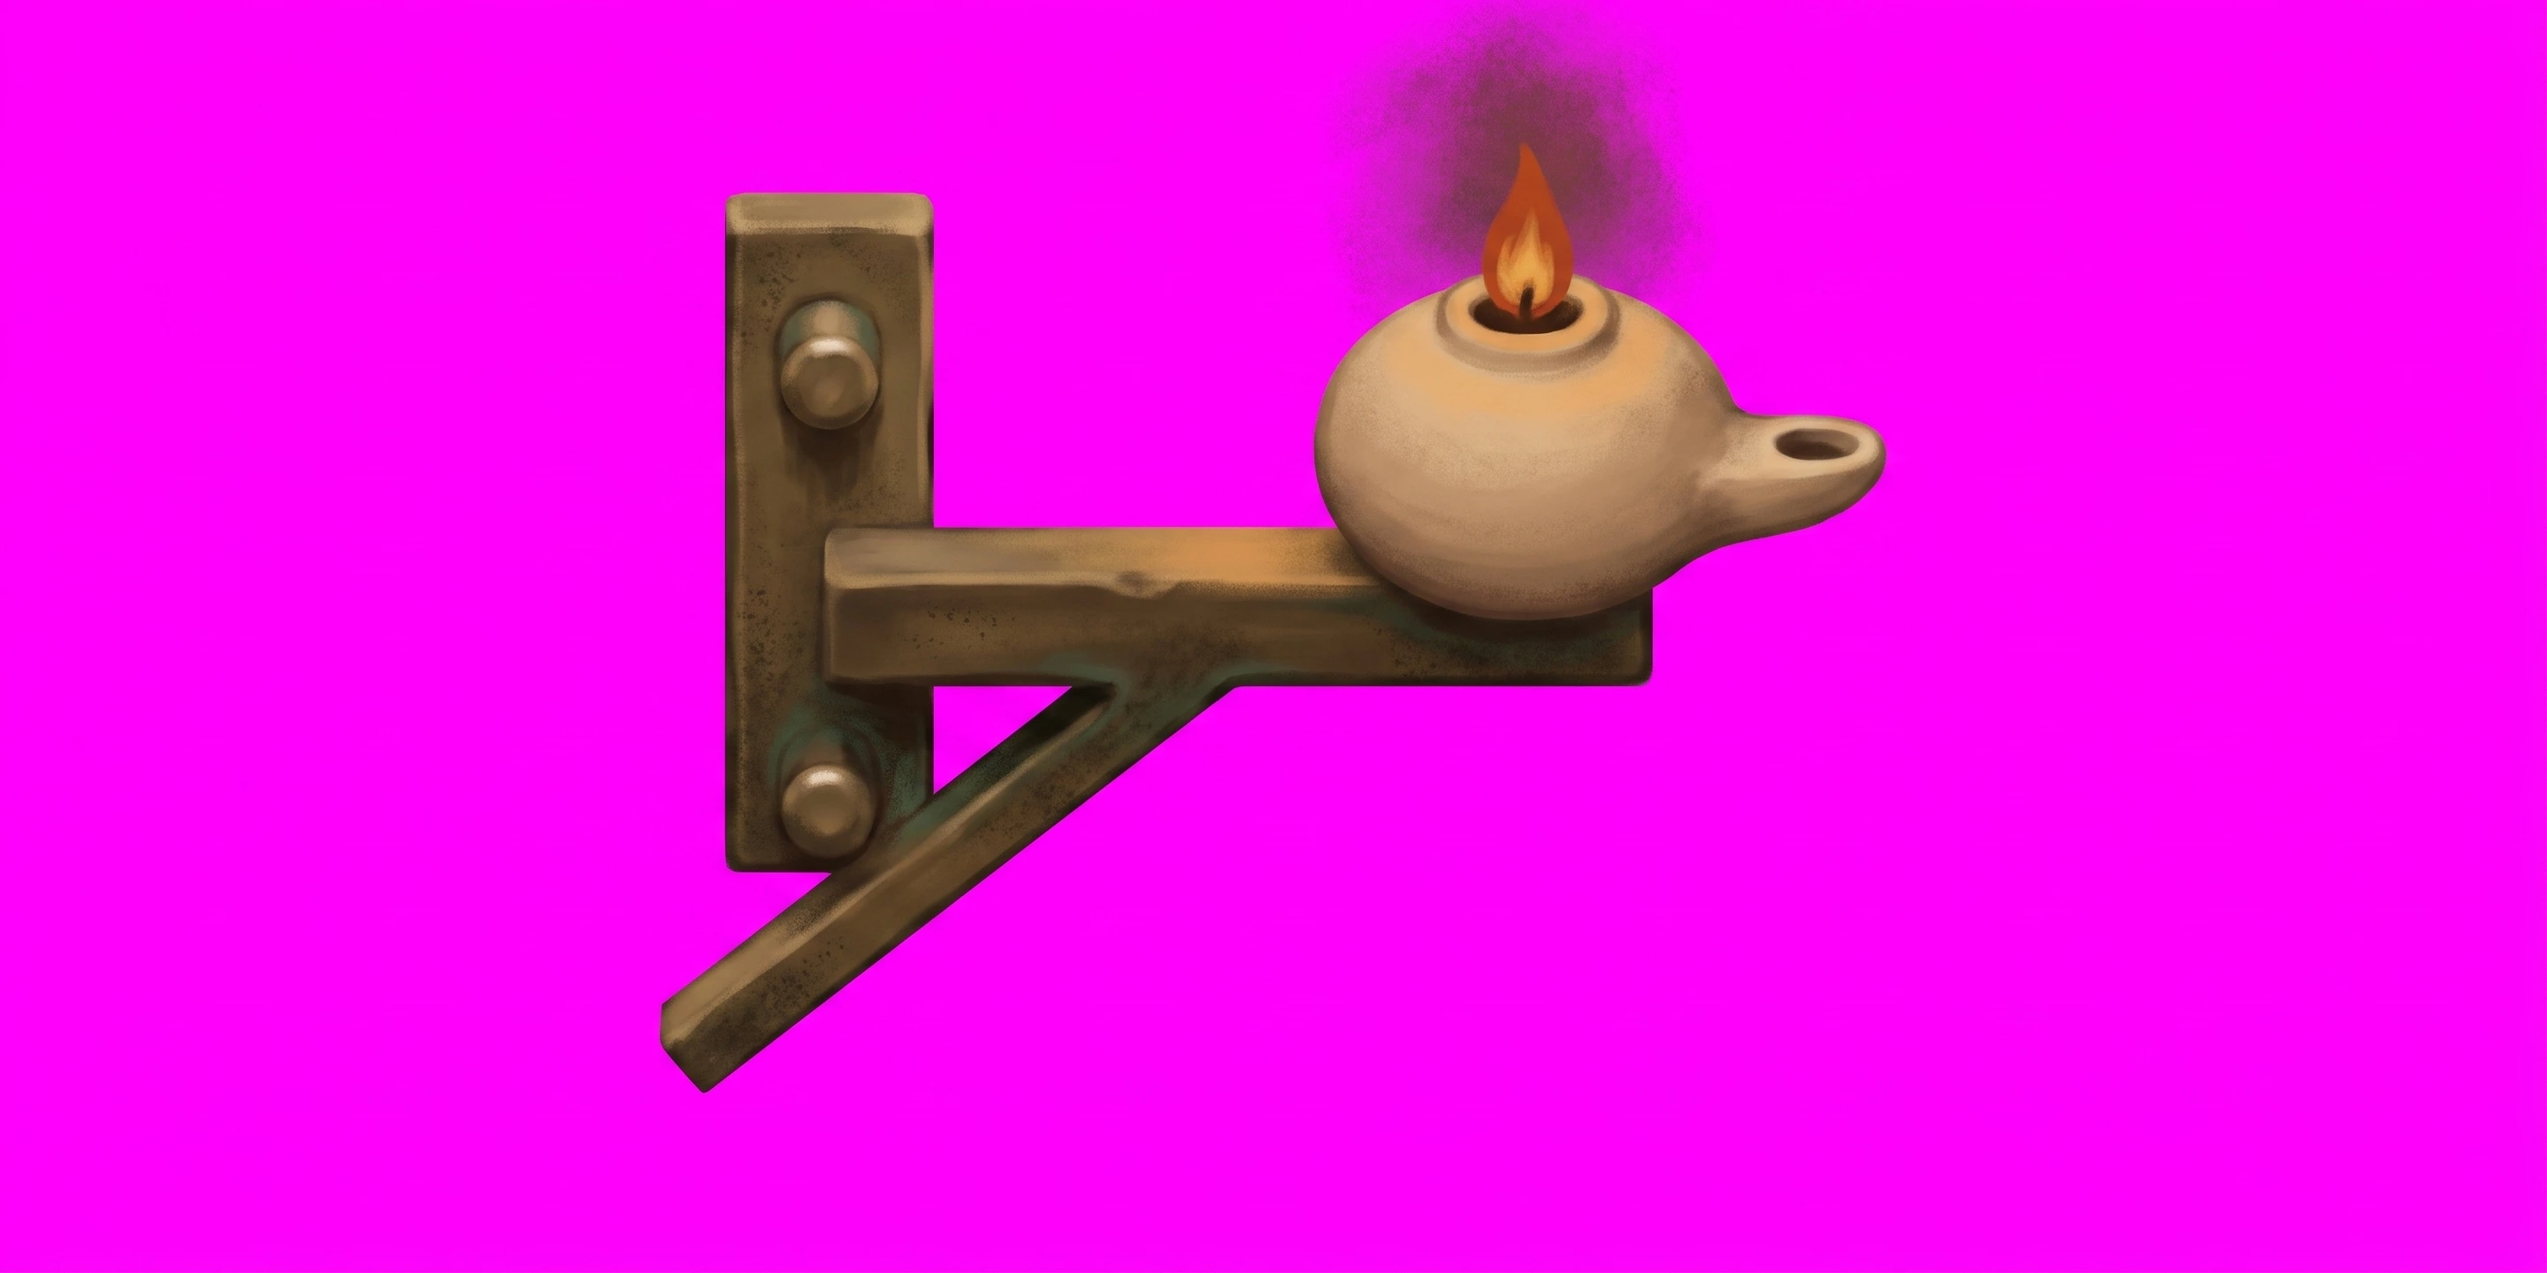
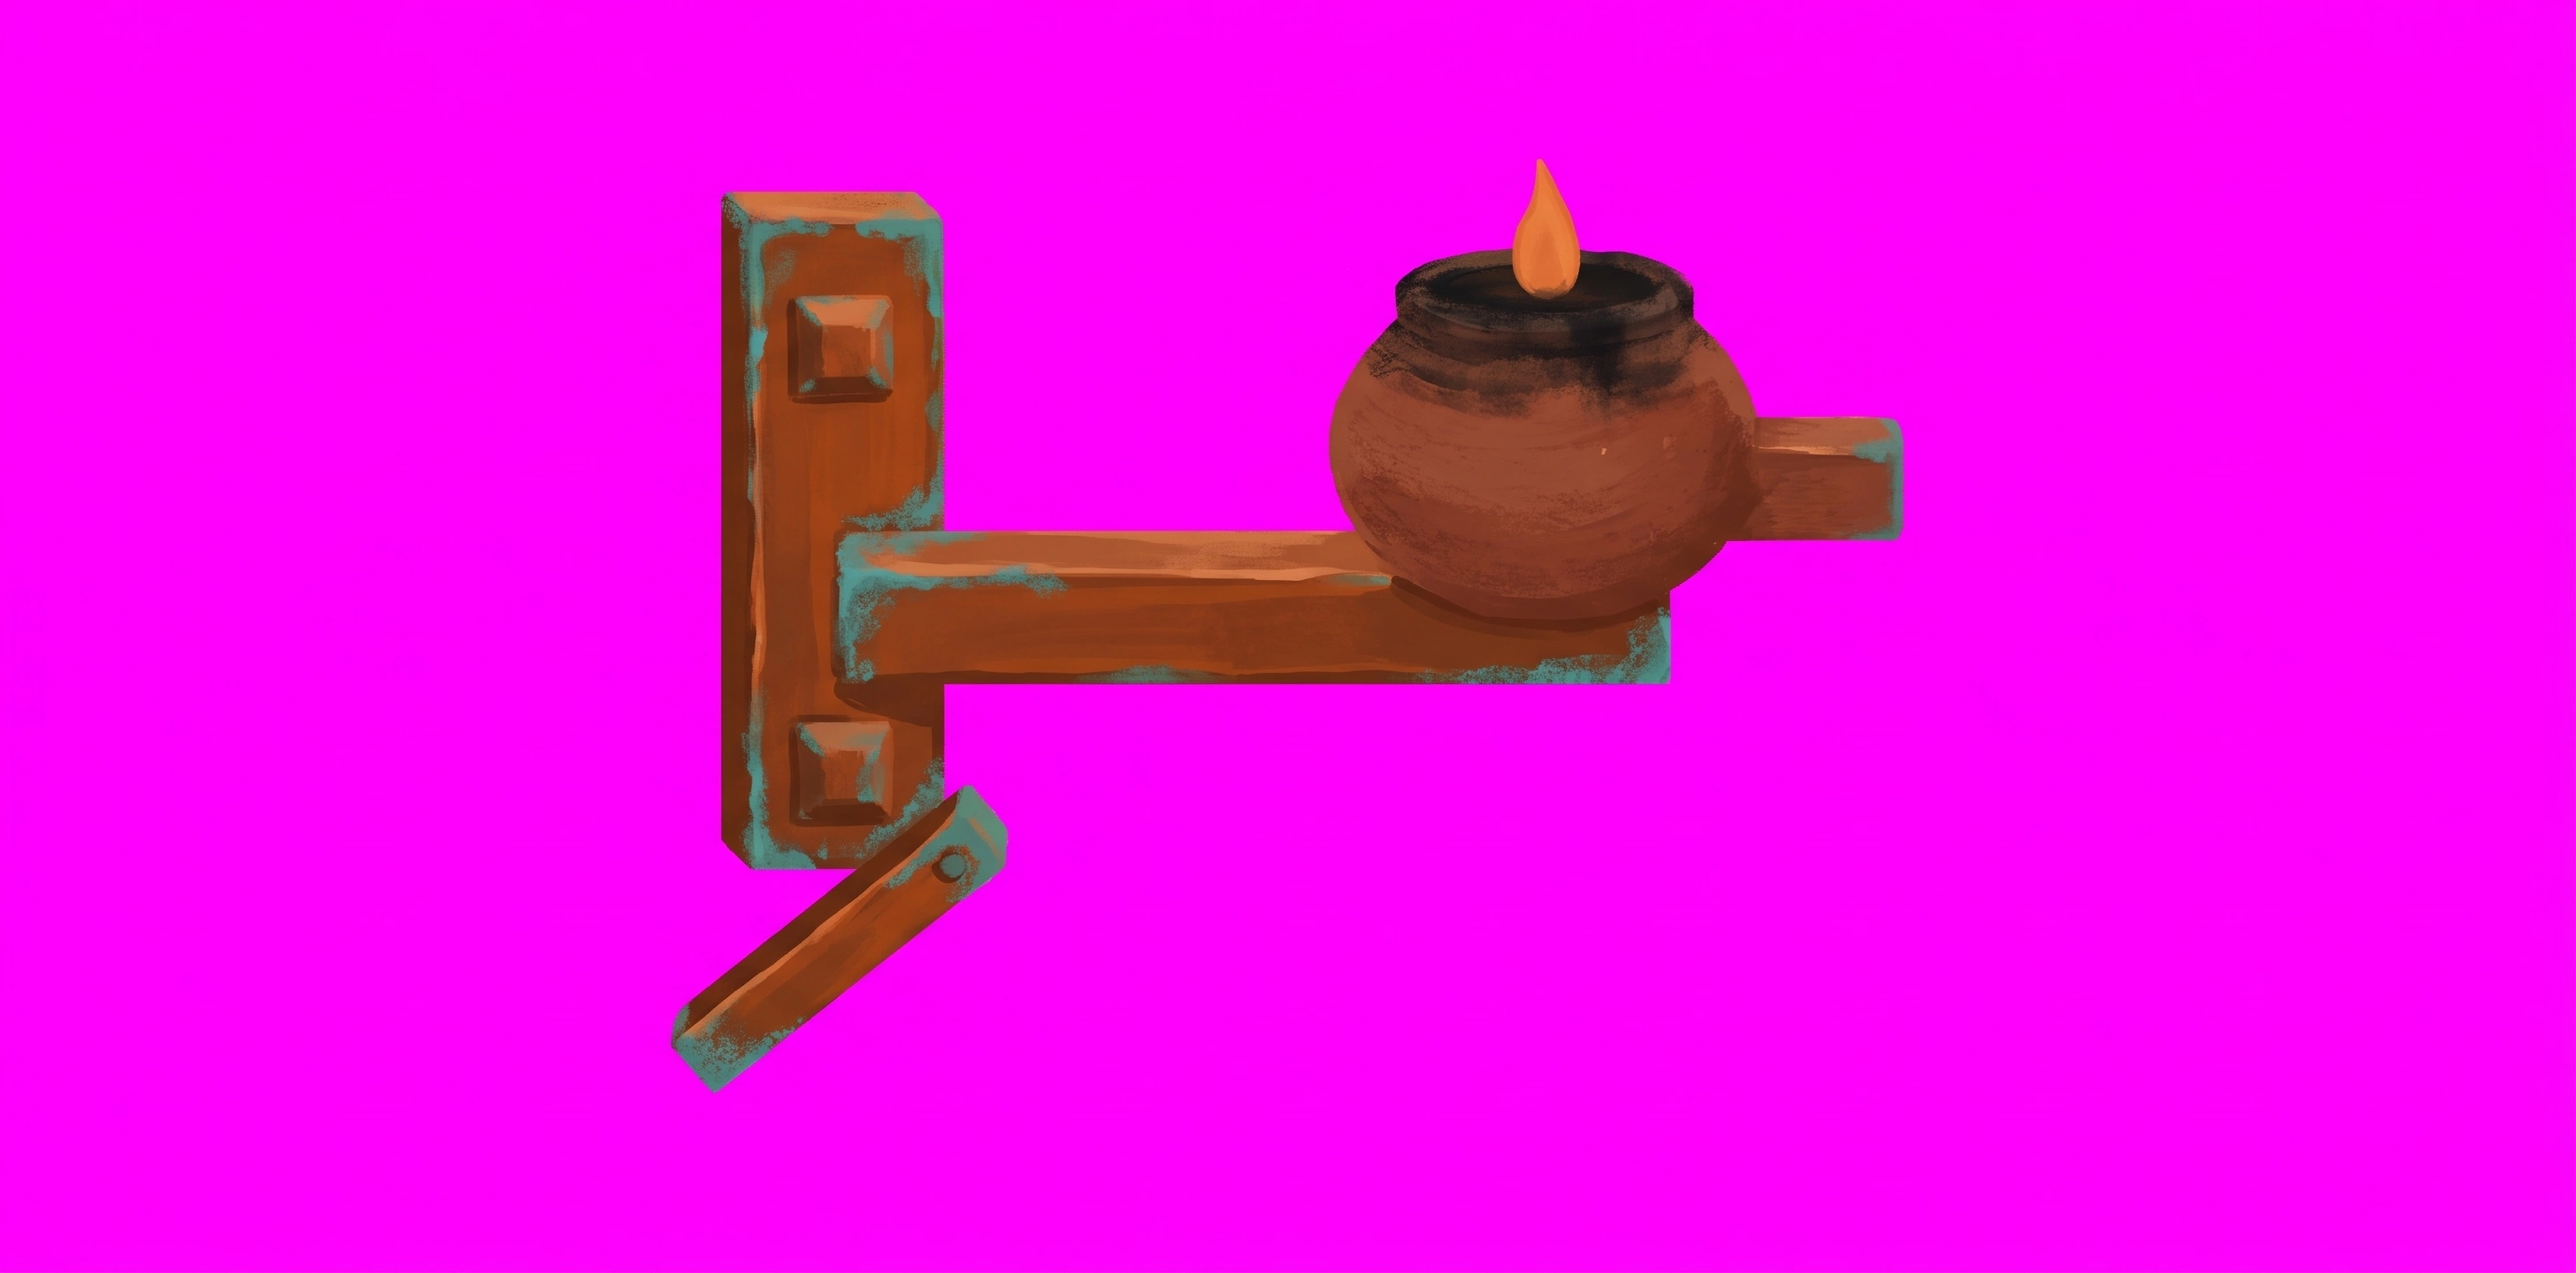
art: junior copper sconce
Claude-Session: https://claude.ai/code/session_01F6g2diRzQCzQwEf9zsEEGH

Changed region(s): [[0.25, 0.0, 0.75, 0.875]]

diff --git a/docs/instructions/repaint-queue.md b/docs/instructions/repaint-queue.md
@@ -483,7 +483,7 @@ Even lighting left to right, no hotspot, no vignette.
 
 ---
 
-## Nobleman — fourteen
+## Nobleman — thirteen
 
 The nobleman's existing props, repainted for the rank's new light orange floor. Each is its own thing
 first: cedar is cedar, linen is linen, pottery is pottery, painted in red ochre, Egyptian blue and leaf
@@ -511,38 +511,6 @@ The last nine are the house's own kinds, new with its activities ([themed-rooms.
 § Junior): each has a primitive of its own in `renderProp.py` and a guarded block in `art/rebuild.sh`. The
 banquet table and the bed are two cells across, so their frame is landscape three by two; the harp and the
 potted tree stand a cell taller, so theirs is portrait two by five.
-
-### `junior/sconce` — a copper wall bracket with a pottery lamp
-
-**Re-roll:** the rank's palette moved (2026-11-03, `Topology/Palette moodboard`). Repainted against the new light orange floor, in its own material's colours; copper only as a trim.
-
-**Attach:**
-
-1. `~/tile-previews/sconce-junior.png` — the scaffold
-2. `~/tile-previews/junior-plain.png` — the material reference
-
-```
-A wall-less product shot of a single object, painted in flat matte gouache, no background, on pure magenta #FF00FF. Landscape, two units wide by one tall, exactly as the reference. Do not re-compose it into a square. Paint over the reference image itself.
-
-The object: a sconce on a wall. The upright plate at the left is fixed to the WALL; the bar reaching
-right is the ARM; the diagonal below it is a BRACE; the small vessel at the arm's end is the LAMP, and
-the nub above it the FLAME.
-
-The bracket is COPPER, a deep orange-brown #8a4022, gone verdigris #4f9a86 along its edges and joints.
-The lamp is red-brown fired pottery #8c4a36, sooted at its lip; the flame a small warm orange tongue.
-
-Keep every edge, every proportion and every silhouette exactly as in the reference image — do not move, resize, straighten, add, remove or restyle any part of it, and do not change the angle it stands at. Paint only material and wear.
-
-No highlights, no gloss, no rim light, no ground plane, no reflections. Matte throughout, evenly lit, crisp and clean. Nobleman's house: orange sandstone, painted plaster, cedar, linen, reed and pottery, each in its OWN colours so it reads at a glance as what it is. Copper is an accent only — a rim, a band, a hasp, gone verdigris green at the edges — never a tint over the whole object.
-```
-
-Then, once the return is in `~/Downloads`:
-
-```sh
-scaffold sconce --shear=0.5 --width=448 --height=224 --margin=1.4 --colour=#8a4022 --sun=0
-yarn import-tile art/masters/props/junior/sconce.webp --tier=junior --name=sconce --slot=wall \
-  --filter=smooth --mask="$OBJ" --headroom=0.18
-```
 
 ### `junior/stela` — a false-door stela painted as red granite
 
